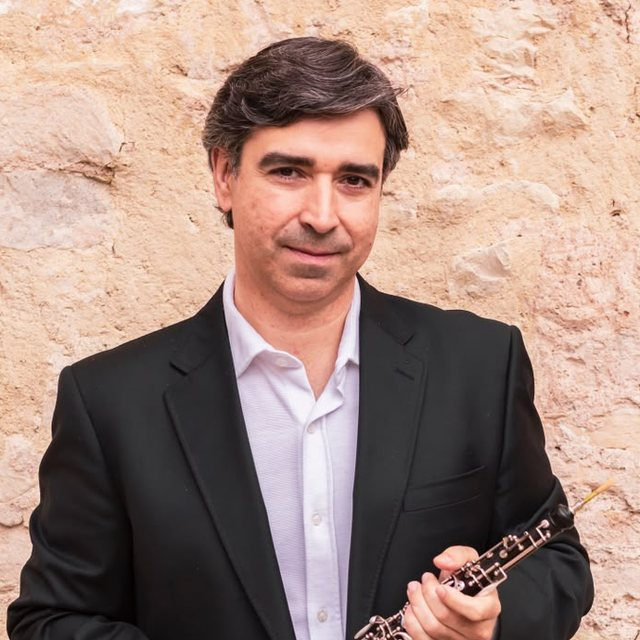
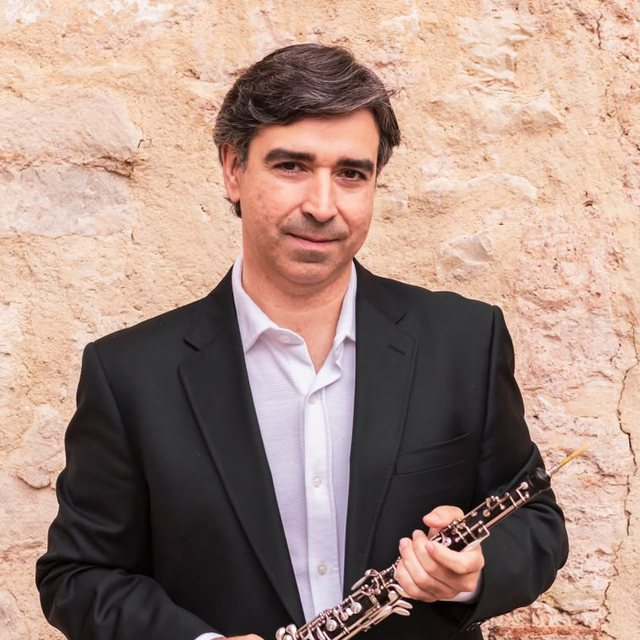
Actualizar el curso a 2026/27 y abrir el encuadre de Jacobo y Nuria
Curso: el 2025/26 venció el 10 de septiembre de 2026, así que pasa a
2026/27 en toda la web. En hazte-socio.html afecta a los tres metadatos
(description, Open Graph y Twitter), la miga de pan, la etiqueta de la
cabecera, la vigencia de la cuota y el concepto de la transferencia (en
el texto y en la tabla de datos bancarios). También al botón "Hazte
socio/a" de index, quiénes somos, patrocinadores, V Concurso y VII
Encuentro. La tarjeta de renovación avanza igualmente un año y ahora
dice "Fui socio/a en el curso 2025/26".

La vigencia nueva (11 sept 2026 → 10 sept 2027) replica el patrón del
curso anterior. CONTEXT.md queda al día: cuotas, concepto, vigencia y
junta directiva, que mantiene los mismos cargos.

Fotos: Jacobo y Nuria se recortan un 14 % más abiertos para que se vean
sus oboes, que antes quedaban cortados por el círculo. Los dos conservan
el mismo tamaño de cara entre sí (ojos al 27 % de la altura). Irene no
cambia: su fagot ya entraba entero.

diff --git a/hazte-socio.html b/hazte-socio.html
@@ -4,7 +4,7 @@
 <meta charset="UTF-8"/>
 <meta name="viewport" content="width=device-width,initial-scale=1"/>
 <title>Hazte socio/a — ADCS Sevilla</title>
-<meta name="description" content="Hazte socio o socia de la ADCS para el curso 2025/26. Cuota de 20 € (30 € dos hermanos/as), pasos para inscribirte y ventajas de formar parte de la asociación."/>
+<meta name="description" content="Hazte socio o socia de la ADCS para el curso 2026/27. Cuota de 20 € (30 € dos hermanos/as), pasos para inscribirte y ventajas de formar parte de la asociación."/>
 <link rel="canonical" href="https://adcsevilla.es/hazte-socio.html"/>
 
 <!-- Compartir en redes (Open Graph / Twitter) -->
@@ -12,7 +12,7 @@
 <meta property="og:site_name" content="ADCS Sevilla"/>
 <meta property="og:locale" content="es_ES"/>
 <meta property="og:title" content="Hazte socio/a — ADCS Sevilla"/>
-<meta property="og:description" content="Hazte socio o socia de la ADCS para el curso 2025/26. Cuota de 20 € (30 € dos hermanos/as), pasos para inscribirte y ventajas de formar parte de la asociación."/>
+<meta property="og:description" content="Hazte socio o socia de la ADCS para el curso 2026/27. Cuota de 20 € (30 € dos hermanos/as), pasos para inscribirte y ventajas de formar parte de la asociación."/>
 <meta property="og:url" content="https://adcsevilla.es/hazte-socio.html"/>
 <meta property="og:image" content="https://adcsevilla.es/assets/img/og-adcs.png"/>
 <meta property="og:image:width" content="1200"/>
@@ -20,7 +20,7 @@
 <meta property="og:image:alt" content="Logotipo de la Asociación de Doble Caña de Sevilla"/>
 <meta name="twitter:card" content="summary_large_image"/>
 <meta name="twitter:title" content="Hazte socio/a — ADCS Sevilla"/>
-<meta name="twitter:description" content="Hazte socio o socia de la ADCS para el curso 2025/26. Cuota de 20 € (30 € dos hermanos/as), pasos para inscribirte y ventajas de formar parte de la asociación."/>
+<meta name="twitter:description" content="Hazte socio o socia de la ADCS para el curso 2026/27. Cuota de 20 € (30 € dos hermanos/as), pasos para inscribirte y ventajas de formar parte de la asociación."/>
 <meta name="twitter:image" content="https://adcsevilla.es/assets/img/og-adcs.png"/>
 
 <!-- Iconos -->
@@ -134,7 +134,7 @@
   <div class="breadcrumb">
     <a href="index.html">Inicio</a>
     <span class="sep">›</span>
-    <span class="current">Hazte socio/a 2025/26</span>
+    <span class="current">Hazte socio/a 2026/27</span>
   </div>
 </div>
 
@@ -143,7 +143,7 @@
   <!-- PAGE HEADER -->
   <div class="page-header">
     <div class="page-header-inner">
-      <div class="section-tag tag-naranja">Curso 2025/26</div>
+      <div class="section-tag tag-naranja">Curso 2026/27</div>
       <h1 class="page-title">Únete a la <span class="accent">gran familia</span> de la ADCS</h1>
       <p class="page-sub">Tanto si eres profesional como estudiante de <span class="txt-oboe">oboe</span> o <span class="txt-fagot">fagot</span>, este es tu lugar. Descuentos, actividades y comunidad te esperan.</p>
     </div>
@@ -166,7 +166,7 @@
       <h2 class="section-title">Cuota <span class="accent">anual</span></h2>
       <div class="cuota-card">
         <h3>Plan de cuota</h3>
-        <div class="periodo">Válida del 11 de septiembre de 2025 al 10 de septiembre de 2026</div>
+        <div class="periodo">Válida del 11 de septiembre de 2026 al 10 de septiembre de 2027</div>
         <div class="cuota-options">
           <div class="cuota-opt">
             <span class="cuota-price">20€</span>
@@ -216,7 +216,7 @@
       <div class="highlight-grid">
         <div class="highlight-box">
           <div class="h-tag">Renovación</div>
-          <h4>Fui socio/a en el curso 2024/25</h4>
+          <h4>Fui socio/a en el curso 2025/26</h4>
           <p>No hace falta rellenar el formulario de nuevo. Solo tienes que hacer el ingreso o transferencia (20€) a nuestra cuenta y mandar el justificante a <a href="mailto:oboeyfagotsevilla@gmail.com">oboeyfagotsevilla@gmail.com</a>. A la mayor brevedad te confirmaremos el pago.</p>
         </div>
         <div class="highlight-box fagot">
@@ -234,7 +234,7 @@
       <div class="section-tag tag-naranja">Datos bancarios</div>
       <h2 class="section-title">Información para el <span class="accent">pago</span></h2>
       <div class="bank-card">
-        <p class="bank-intro">Realiza la transferencia con el siguiente concepto: <strong>CUOTA ADCS 2025-26 — [DNI DEL SOCIO/A]</strong></p>
+        <p class="bank-intro">Realiza la transferencia con el siguiente concepto: <strong>CUOTA ADCS 2026-27 — [DNI DEL SOCIO/A]</strong></p>
         <div class="bank-grid">
           <div class="bank-item">
             <div class="bank-label">Titular</div>
@@ -254,7 +254,7 @@
           </div>
           <div class="bank-item">
             <div class="bank-label">Concepto</div>
-            <div class="bank-value">CUOTA ADCS 2025-26 — [DNI DEL SOCIO/A]</div>
+            <div class="bank-value">CUOTA ADCS 2026-27 — [DNI DEL SOCIO/A]</div>
           </div>
         </div>
       </div>

diff --git a/vii-encuentro-15.html b/vii-encuentro-15.html
@@ -247,7 +247,7 @@
     <div class="cta-card" style="max-width:700px;margin:0 auto;background:linear-gradient(135deg,var(--naranja),var(--naranja-dark));border-radius:1.5rem;padding:3rem 2rem;color:#fff">
       <h3 style="font-family:'Playfair Display',serif;font-size:1.6rem;margin-bottom:0.6rem">No te pierdas el próximo encuentro</h3>
       <p style="opacity:0.9;font-size:0.95rem;margin-bottom:1.5rem;line-height:1.6">Los socios y socias se enteran antes que nadie de cada actividad que organizamos. Forma parte de la ADCS.</p>
-      <a href="hazte-socio.html" class="btn-cta-white">Hazte socio/a 2025/26 →</a>
+      <a href="hazte-socio.html" class="btn-cta-white">Hazte socio/a 2026/27 →</a>
     </div>
   </section>
 

diff --git a/patrocinadores.html b/patrocinadores.html
@@ -226,7 +226,7 @@
     <div class="cta-card" style="max-width:700px;margin:0 auto;background:linear-gradient(135deg,var(--naranja),var(--naranja-dark));border-radius:1.5rem;padding:3rem 2rem;color:#fff">
       <h3 style="font-family:'Playfair Display',serif;font-size:1.6rem;margin-bottom:0.6rem">¿Quieres formar parte de esta familia?</h3>
       <p style="opacity:0.9;font-size:0.95rem;margin-bottom:1.5rem;line-height:1.6">Tanto si eres profesional como estudiante de oboe o fagot, te esperamos con los brazos abiertos.</p>
-      <a href="hazte-socio.html" class="btn-cta-white">Hazte socio/a 2025/26 →</a>
+      <a href="hazte-socio.html" class="btn-cta-white">Hazte socio/a 2026/27 →</a>
     </div>
   </section>
 

diff --git a/index.html b/index.html
@@ -119,7 +119,7 @@
     <h1>Asociación de<br/><span class="naranja">Doble Caña</span><br/>de <span class="fagot">Sevilla</span></h1>
     <p class="hero-sub">Uniendo al profesorado y al alumnado de <span class="oboe">oboe</span> y <span class="fagot">fagot</span> de Sevilla y su provincia para crecer en lo musical y en lo personal desde 2010.</p>
     <div class="hero-ctas">
-      <a class="btn-primary" href="hazte-socio.html">Hazte socio/a 2025/26</a>
+      <a class="btn-primary" href="hazte-socio.html">Hazte socio/a 2026/27</a>
       <a class="btn-outline" href="quienes-somos.html">Conoce a la ADCS</a>
     </div>
     <div class="hero-stats">

diff --git a/v-concurso-2026.html b/v-concurso-2026.html
@@ -218,7 +218,7 @@
     <div class="cta-card">
       <h3>¿Quieres ser el primero en saber la nueva fecha?</h3>
       <p>Los socios y socias reciben la información por email antes de que se publique en ningún otro sitio. Hazte socio/a de la ADCS y no te pierdas nada.</p>
-      <a href="hazte-socio.html" class="btn-cta-white">Hazte socio/a 2025/26 →</a>
+      <a href="hazte-socio.html" class="btn-cta-white">Hazte socio/a 2026/27 →</a>
     </div>
   </section>
 

diff --git a/quienes-somos.html b/quienes-somos.html
@@ -308,7 +308,7 @@
     <div class="cta-card">
       <h3>¿Quieres formar parte de esta familia?</h3>
       <p>Tanto si eres profesional como estudiante de oboe o fagot, te esperamos con los brazos abiertos.</p>
-      <a href="hazte-socio.html" class="btn-cta-white">Hazte socio/a 2025/26 →</a>
+      <a href="hazte-socio.html" class="btn-cta-white">Hazte socio/a 2026/27 →</a>
     </div>
   </section>
 

diff --git a/README.md b/README.md
@@ -78,8 +78,8 @@ ADCS Web/
         │
         └── junta/
             ├── irene.jpg               ✅ Foto de Irene (72 KB, 640×640)
-            ├── jacobo.jpg              ✅ Foto de Jacobo (75 KB, 640×640)
-            └── nuria.jpg               ✅ Foto de Nuria (88 KB, 640×640)
+            ├── jacobo.jpg              ✅ Foto de Jacobo (81 KB, 640×640)
+            └── nuria.jpg               ✅ Foto de Nuria (95 KB, 640×640)
 ```
 
 **Total:** 12 páginas públicas + 6 páginas del área de socios = **18 páginas**.
@@ -97,7 +97,7 @@ ADCS Web/
 
 ### 2. `quienes-somos.html` — Quiénes somos
 - **Estado:** ✅ Completa (con placeholder)
-- **Contenido:** Historia, misión, junta directiva 2025-26
+- **Contenido:** Historia, misión, junta directiva 2026-27
 - **Placeholders:** 1 imagen (Historia)
   - Ubicación: Línea 126 (`div.img-placeholder.ph-historia`)
   - Qué va: Foto histórica de la ADCS
@@ -402,9 +402,9 @@ Ubicación esperada: `assets/img/junta/[nombre].jpg`
 | Johanna Suárez González | Presidenta | `johanna.jpg` | ❌ Falta |
 | Irene Pérez Cantillón | Secretaria | `irene.jpg` | ✅ Existe (72 KB, 640×640) |
 | Jesús Manuel Moreno González | Tesorero | `jesus-manuel.jpg` | ❌ Falta |
-| Jacobo Díaz Giráldez | Vocal | `jacobo.jpg` | ✅ Existe (75 KB, 640×640) |
+| Jacobo Díaz Giráldez | Vocal | `jacobo.jpg` | ✅ Existe (81 KB, 640×640) |
 | Alejandro Álvarez Asencio | Vocal (desarrollador web) | `alejandro.jpg` | ❌ Falta |
-| Nuria Ferrero López | Vocal | `nuria.jpg` | ✅ Existe (88 KB, 640×640) |
+| Nuria Ferrero López | Vocal | `nuria.jpg` | ✅ Existe (95 KB, 640×640) |
 
 ### Imágenes de placeholders (4 total esperadas)
 | Página | Tipo | Ubicación | Descripción |
@@ -573,7 +573,7 @@ Para poder proteger `/socios/*` con Cloudflare Access, el DNS de `adcsevilla.es`
 5. **Subir 3 fotos de junta directiva** faltantes
    - Ubicación esperada: `assets/img/junta/[nombre].jpg`
    - Faltan: Johanna, Jesús Manuel, Alejandro
-   - Encuadre a replicar: recorte cuadrado 640×640, ojos a ~30 % de la altura y
+   - Encuadre a replicar: recorte cuadrado 640×640, ojos a ~27-31 % de la altura y
      distancia entre ojos y mentón de ~15 % de la altura (así todas las fotos
      tienen la misma cercanía a la cara); el instrumento se incluye si cabe
 

diff --git a/CONTEXT.md b/CONTEXT.md
@@ -101,7 +101,7 @@ Páginas (heredadas de la web actual):
 - **Instagram:** https://www.instagram.com/adcsevilla/
 - **WhatsApp (grupo de difusión):** https://www.whatsapp.com/channel/0029Va8ocKGGJP8EXYqmqn34
 
-## Junta directiva 2025/26
+## Junta directiva 2026/27
 
 - **Presidenta:** Johanna Suárez González
 - **Secretaria:** Irene Pérez Cantillón
@@ -116,13 +116,13 @@ Páginas (heredadas de la web actual):
 - **Caja:** Caja Rural
 - **IBAN:** ES09 3187 0101 0851 5831 1919
 - **BIC:** BCOEESMM187
-- **Concepto:** `CUOTA ADCS 2025-26 — [DNI DEL SOCIO/A]`
+- **Concepto:** `CUOTA ADCS 2026-27 — [DNI DEL SOCIO/A]`
 
-## Cuotas 2025/26
+## Cuotas 2026/27
 
 - 20€ individual
 - 30€ dos hermanos/as
-- Vigencia: 11 sept 2025 → 10 sept 2026
+- Vigencia: 11 sept 2026 → 10 sept 2027
 
 ## Formulario de inscripción (Google Forms)
 
